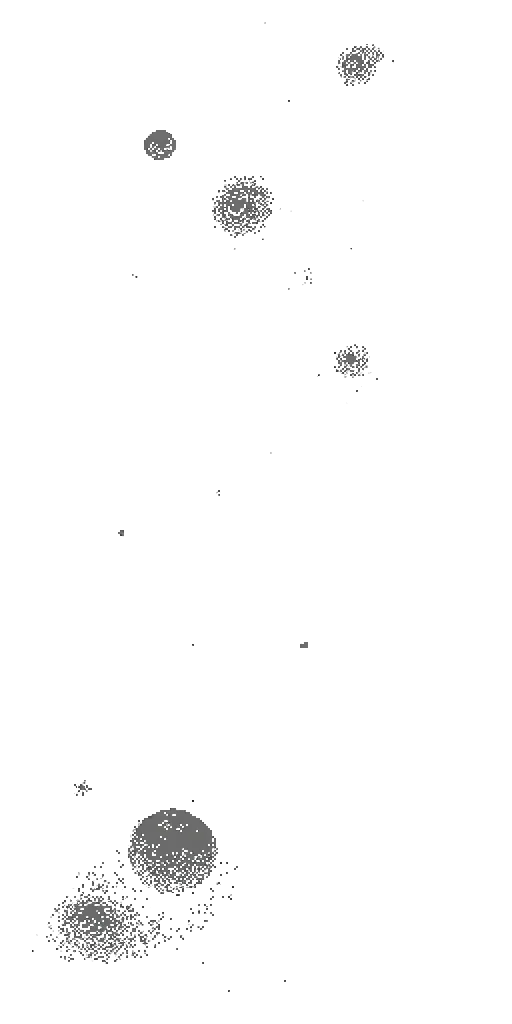
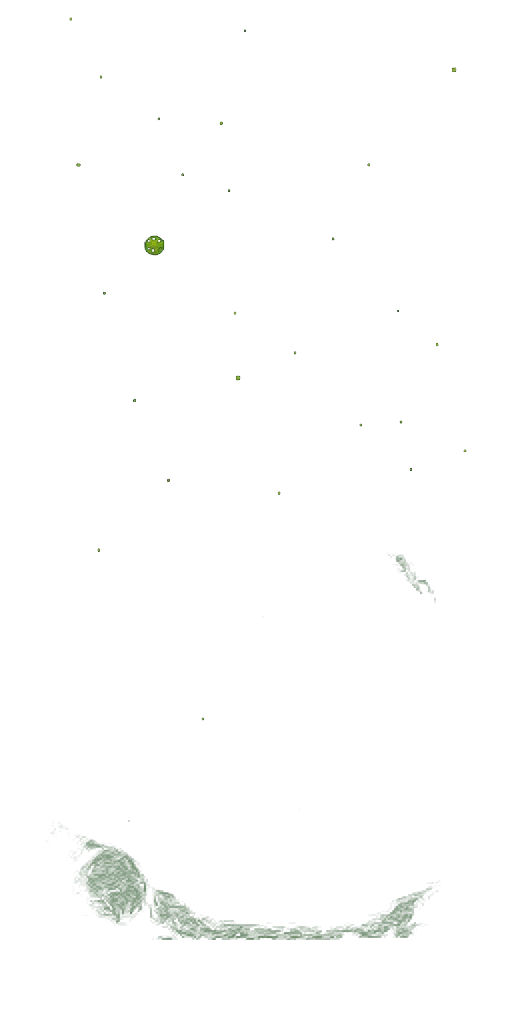
v3.0.1: překryvné vrstvy pozadí drží paletu skinu
Vrstvy 2 a 3 tří nových skinů vyšly neutrálně šedé — solar_striker #868686
tam, kde má být čtyřodstínová zeleň. Vydané skiny to nepotkalo jen proto, že
jejich paleta je dost hlasitá, aby prompt přehlušila.

Tři kola úprav promptu to nespravila a stojí za zapsání, co která ukázala.
sharedDangerMood předepisoval vrstvám bez zóny doslova "no strong colour cast",
takže model dělal šeď na přímý pokyn; přeformulován. Šablona pozadí vůbec
nepoužívala PaletteDescription, takže u skinu, jehož BackgroundMood popisuje
strukturu a ne barvy, nebyl v promptu jediný odstín; doplněna, a to před popis
vrstvy, protože barva uvedená až za ním na elementy nedosáhne. Negace "no
white, no grey" difuzní model ignoroval, nahrazena kladným určením. Každá
změna posunula výsledek, žádná ho nespravila: sytost stoupla z 0,00 na 0,09.

Barva je tu ale konstanta z definice, ne výsledek úvahy. Overlay jde přes
AlphaFromLuminance, takže z generace potřebujeme jen kde elementy jsou a jak
svítí. RecolourOverlay proto namapuje jas na paletu skinu — spouští se sám,
když sytost spadne pod 0,15, a nahlas to vypíše. Naměřeno po opravě:
solar_striker 0,00 → 0,73 s #93B512, tedy Game Boy zeleň z definice.
space_invaders (0,75) a luftrausers (0,30) brána nechala být, jak má.

U spritů by to bylo špatně a nedělá se to: barva spritu nese modelaci a
materiál. Tečka v překryvné vrstvě žádný materiál nemá.

diff --git a/pipeline/internal/postprocess/overlay_palette.go b/pipeline/internal/postprocess/overlay_palette.go
@@ -1,0 +1,127 @@
+package postprocess
+
+import (
+	"fmt"
+	"image"
+	"image/color"
+	"math"
+	"regexp"
+	"sort"
+)
+
+// overlayGreyMax is the mean saturation below which an overlay layer counts as
+// having lost its palette. Measured on real art: the layers that came out right
+// sit at 0.75 (space_invaders' green motes) and 0.30 (luftrausers' sepia dust),
+// the ones that failed at 0.00 (a four-shade green skin rendered pure white)
+// and 0.02. Nothing observed lands between 0.15 and 0.30, so the gate has room
+// on both sides and a deliberately monochrome skin is never dragged into colour
+// it did not ask for — it has no palette hues to be recoloured with either.
+const overlayGreyMax = 0.15
+
+var hexColor = regexp.MustCompile(`#[0-9A-Fa-f]{6}`)
+
+// RecolourOverlay maps an overlay layer's luminance onto the skin's own palette.
+//
+// The parallax overlays are luminous specks and debris on black, and their
+// alpha already comes from luminance rather than a chroma key, so the generator
+// only ever supplies two useful things: where the elements are and how bright.
+// Their hue is not an artistic variable at all — it is stated in the skin
+// definition. Three rounds of prompt work could not make the model honour it on
+// a narrow palette (naming the colours, reordering them ahead of the layer
+// description, and replacing negations with positive specification each moved
+// it and none fixed it; diffusion reads "bright glowing speck" as white), so
+// the hue is imposed here instead of negotiated there.
+//
+// This is deliberately not done to sprites. A sprite's colour carries modelling
+// and material, and remapping it would flatten the art. An overlay speck has no
+// material — it is a coloured dot — so nothing is lost by stating its colour.
+//
+// palette must be sorted dark to light. Alpha is untouched.
+func RecolourOverlay(src *image.NRGBA, palette []color.NRGBA) *image.NRGBA {
+	if len(palette) == 0 {
+		return src
+	}
+	b := src.Bounds()
+	dst := image.NewNRGBA(b)
+	last := float64(len(palette) - 1)
+	for y := b.Min.Y; y < b.Max.Y; y++ {
+		for x := b.Min.X; x < b.Max.X; x++ {
+			p := src.NRGBAAt(x, y)
+			if p.A == 0 {
+				dst.SetNRGBA(x, y, p)
+				continue
+			}
+			lum := (0.299*float64(p.R) + 0.587*float64(p.G) + 0.114*float64(p.B)) / 255
+			// Interpolate along the ramp so the speck keeps its internal
+			// falloff — snapping to the nearest entry would posterise every
+			// soft edge into a hard ring.
+			pos := lum * last
+			i := int(pos)
+			if i >= len(palette)-1 {
+				i = len(palette) - 2
+				if i < 0 {
+					dst.SetNRGBA(x, y, color.NRGBA{R: palette[0].R, G: palette[0].G, B: palette[0].B, A: p.A})
+					continue
+				}
+			}
+			t := pos - float64(i)
+			mix := func(a, bb uint8) uint8 { return uint8(float64(a) + (float64(bb)-float64(a))*t + 0.5) }
+			dst.SetNRGBA(x, y, color.NRGBA{
+				R: mix(palette[i].R, palette[i+1].R),
+				G: mix(palette[i].G, palette[i+1].G),
+				B: mix(palette[i].B, palette[i+1].B),
+				A: p.A,
+			})
+		}
+	}
+	return dst
+}
+
+// PaletteFromDescription pulls the hex codes out of a skin's PaletteDescription
+// and returns them sorted dark to light, which is the order RecolourOverlay
+// ramps through. Skins that describe their palette in words rather than hex
+// yield nothing and are left alone.
+func PaletteFromDescription(desc string) []color.NRGBA {
+	var out []color.NRGBA
+	for _, h := range hexColor.FindAllString(desc, -1) {
+		var r, g, b uint8
+		if _, err := fmt.Sscanf(h[1:], "%02x%02x%02x", &r, &g, &b); err != nil {
+			continue
+		}
+		out = append(out, color.NRGBA{R: r, G: g, B: b, A: 255})
+	}
+	sort.SliceStable(out, func(i, j int) bool { return lumaOf(out[i]) < lumaOf(out[j]) })
+	return out
+}
+
+func lumaOf(c color.NRGBA) float64 {
+	return 0.299*float64(c.R) + 0.587*float64(c.G) + 0.114*float64(c.B)
+}
+
+// meanSaturationOpaque is the average HSV saturation over the pixels that
+// survived the luminance key. Fully transparent pixels carry whatever RGB the
+// encoder left behind and would drag the average toward that, so they are
+// excluded rather than weighted down.
+func meanSaturationOpaque(img *image.NRGBA) float64 {
+	b := img.Bounds()
+	var sum float64
+	var n int
+	for y := b.Min.Y; y < b.Max.Y; y++ {
+		for x := b.Min.X; x < b.Max.X; x++ {
+			p := img.NRGBAAt(x, y)
+			if p.A < 32 {
+				continue
+			}
+			mx := math.Max(float64(p.R), math.Max(float64(p.G), float64(p.B)))
+			mn := math.Min(float64(p.R), math.Min(float64(p.G), float64(p.B)))
+			if mx > 0 {
+				sum += (mx - mn) / mx
+			}
+			n++
+		}
+	}
+	if n == 0 {
+		return 0
+	}
+	return sum / float64(n)
+}

diff --git a/pipeline/internal/generator/assets.go b/pipeline/internal/generator/assets.go
@@ -65,10 +65,19 @@ var structureSpecs = []struct{ name, directive string }{
 // that the key erased outright — one layer came back 100% transparent. The
 // elements have to be explicitly luminous, and the scene words have to be
 // explicitly banned, or the model reaches for a horizon every time.
+//
+// The last clause is load-bearing for the same reason the rest is. "Bright" and
+// "luminous" with no hue attached mean white to the model: measured on the v3
+// batch, layer_2 came back #8D8D8D on the four-shade green handheld and
+// #75706C on the neon vector skin. Naming the palette in a later sentence does
+// not reach the elements — the constraint has to sit on the elements
+// themselves, in the same breath as the word bright.
 const isolatedOnBlack = "The elements float in an empty pure black void with " +
 	"nothing behind them — no horizon, no ground, no terrain, no landscape, " +
 	"no skyline, no planet surface. Every element is bright and clearly " +
-	"separated from the black; the background stays pure flat black everywhere"
+	"separated from the black; the background stays pure flat black everywhere. " +
+	"Each element glows in one of the colours listed above, at full saturation, " +
+	"as if lit from within by that colour"
 
 // backgroundLayers describe the four parallax planes. Layers 1-3 are composited
 // over layer_0 with alpha derived by chroma key, hence isolatedOnBlack; layer_0
@@ -139,9 +148,19 @@ var backgroundZones = []struct {
 
 // Fillers for the shared layers, which are reused under every zone and so must
 // commit to none of them.
+//
+// sharedDangerMood used to read "the base palette held neutral, mid-tone, no
+// strong colour cast". It meant "add no sector-specific cast"; the model read
+// it as "be grey", and next to isolatedOnBlack's "bright" that won outright.
+// Measured on the v3 batch: layer_2 came back #868686 on the four-shade green
+// handheld and #585554 on the neon vector skin, while the same layer on
+// space_invaders is #41AA37 and on luftrausers #B88A60 — the older skins
+// survived only because their base palette is loud enough to outshout it.
+// It now says what it always meant: hold the skin's own palette, refuse the
+// zone's. Shipped skins are unaffected — generation skips assets that exist.
 const (
 	sharedZoneDesc   = "generic mid-territory, no distinctive landmarks — ambient detail that must sit believably over any sector of this setting"
-	sharedDangerMood = "the base palette held neutral, mid-tone, no strong colour cast — must read over both cold and hot backdrops"
+	sharedDangerMood = "stay on the base palette exactly as described above, at mid intensity — take none of the sector-specific colour shifts, but never fall back to grey or white: every element keeps the palette's own hues"
 )
 
 // AssetsForSkin returns all asset specs needed for a given skin.
@@ -263,8 +282,8 @@ func AssetsForSkin(s skin.SkinDef) []AssetSpec {
 		Resolution:  "2k",
 	})
 	for _, uiSpec := range []struct{ name, assetType, aspect string }{
-		{"ui_card_bg",    "ui_card_bg",    "1:1"},
-		{"ui_button",     "ui_button",     "4:1"},
+		{"ui_card_bg", "ui_card_bg", "1:1"},
+		{"ui_button", "ui_button", "4:1"},
 	} {
 		specs = append(specs, AssetSpec{
 			Name:        uiSpec.name,

diff --git a/pipeline/internal/postprocess/overlay_palette_test.go b/pipeline/internal/postprocess/overlay_palette_test.go
@@ -1,0 +1,80 @@
+package postprocess
+
+import (
+	"image"
+	"image/color"
+	"testing"
+)
+
+// greySpecks is what the generator hands back when it reads "bright glowing
+// speck" as white: luminous dots with no hue at all, on black.
+func greySpecks() *image.NRGBA {
+	img := image.NewNRGBA(image.Rect(0, 0, 32, 32))
+	for y := 0; y < 32; y++ {
+		for x := 0; x < 32; x++ {
+			img.SetNRGBA(x, y, color.NRGBA{A: 0})
+		}
+	}
+	for i, v := range []uint8{60, 140, 255} {
+		img.SetNRGBA(4+i*8, 10, color.NRGBA{R: v, G: v, B: v, A: 255})
+	}
+	return img
+}
+
+func TestPaletteFromDescriptionSortsDarkToLight(t *testing.T) {
+	pal := PaletteFromDescription("darkest #0F380F, dark #306230, light #8BAC0F, lightest #9BBC0F")
+	if len(pal) != 4 {
+		t.Fatalf("got %d colours, want 4", len(pal))
+	}
+	for i := 1; i < len(pal); i++ {
+		if lumaOf(pal[i-1]) > lumaOf(pal[i]) {
+			t.Errorf("palette not sorted dark to light at %d: %v then %v", i, pal[i-1], pal[i])
+		}
+	}
+	if len(PaletteFromDescription("four shades of greenish gray, no hex here")) != 0 {
+		t.Error("a worded palette should yield nothing rather than a guess")
+	}
+}
+
+func TestRecolourOverlayPutsTheSkinPaletteOnGreySpecks(t *testing.T) {
+	src := greySpecks()
+	if sat := meanSaturationOpaque(src); sat >= overlayGreyMax {
+		t.Fatalf("fixture is not grey: saturation %.2f", sat)
+	}
+
+	pal := PaletteFromDescription("darkest #0F380F, dark #306230, light #8BAC0F, lightest #9BBC0F")
+	out := RecolourOverlay(src, pal)
+
+	if sat := meanSaturationOpaque(out); sat < 0.4 {
+		t.Errorf("specks are still washed out: saturation %.2f", sat)
+	}
+	// Alpha is the layer's whole contribution to the parallax and must survive
+	// untouched — a recolour that also moved alpha would change the composite.
+	b := src.Bounds()
+	for y := b.Min.Y; y < b.Max.Y; y++ {
+		for x := b.Min.X; x < b.Max.X; x++ {
+			if src.NRGBAAt(x, y).A != out.NRGBAAt(x, y).A {
+				t.Fatalf("alpha changed at %d,%d", x, y)
+			}
+		}
+	}
+	// Brightness order has to survive too, or the specks stop reading as lit.
+	dark := lumaOf(out.NRGBAAt(4, 10))
+	mid := lumaOf(out.NRGBAAt(12, 10))
+	bright := lumaOf(out.NRGBAAt(20, 10))
+	if !(dark < mid && mid < bright) {
+		t.Errorf("ramp does not preserve brightness order: %.0f %.0f %.0f", dark, mid, bright)
+	}
+}
+
+func TestRecolourOverlayLeavesAColouredLayerAlone(t *testing.T) {
+	img := image.NewNRGBA(image.Rect(0, 0, 16, 16))
+	for y := 0; y < 16; y++ {
+		for x := 0; x < 16; x++ {
+			img.SetNRGBA(x, y, color.NRGBA{R: 66, G: 249, B: 26, A: 255})
+		}
+	}
+	if sat := meanSaturationOpaque(img); sat < overlayGreyMax {
+		t.Errorf("a saturated green layer must sit above the gate, got %.2f", sat)
+	}
+}

diff --git a/pipeline/internal/postprocess/processor.go b/pipeline/internal/postprocess/processor.go
@@ -27,6 +27,9 @@ type Config struct {
 	TargetSize  int    // max dimension in px (default 128)
 	BgThreshold int    // color distance threshold (default 60)
 	BgMargin    int    // soft-edge ramp width (default 20)
+	// PaletteDescription is the skin's own palette, used to rescue overlay
+	// layers the generator returned grey. Empty disables the rescue.
+	PaletteDescription string
 
 	// Sel records which variation each asset was built from. Assets absent
 	// from it fall back to Variation, so an unrecorded skin behaves exactly as
@@ -347,7 +350,19 @@ func processBackgrounds(cfg Config, asset skin.ManifestAsset, bgDir string) erro
 	if opaque {
 		out = resized
 	} else {
-		out = AlphaFromLuminance(resized, bgAlphaBlack, bgAlphaWhite)
+		keyed := AlphaFromLuminance(resized, bgAlphaBlack, bgAlphaWhite)
+		// An overlay that came back grey lost its palette in generation, not in
+		// composition; see RecolourOverlay for why the hue is imposed here
+		// rather than argued with the model. Loud, because a skin whose overlays
+		// keep needing this has a background prompt worth rewriting.
+		if sat := meanSaturationOpaque(keyed); sat < overlayGreyMax {
+			if pal := PaletteFromDescription(cfg.PaletteDescription); len(pal) >= 3 {
+				fmt.Printf("  [overlay] %s came back grey (saturation %.2f) — recoloured to the skin palette\n",
+					asset.Name, sat)
+				keyed = RecolourOverlay(keyed, pal)
+			}
+		}
+		out = keyed
 	}
 
 	outPath := filepath.Join(bgDir, asset.Name+".webp")

diff --git a/pipeline/cmd/postprocess/main.go b/pipeline/cmd/postprocess/main.go
@@ -76,21 +76,24 @@ func main() {
 		// one-off can be dialled in from the command line before it is written
 		// down in the definition.
 		bgThreshold := *threshold
-		if !thresholdSet {
-			if def, ok := skin.GetSkin(id); ok && def.BgThreshold > 0 {
+		var paletteDesc string
+		if def, ok := skin.GetSkin(id); ok {
+			paletteDesc = def.PaletteDescription
+			if !thresholdSet && def.BgThreshold > 0 {
 				bgThreshold = def.BgThreshold
 			}
 		}
 
 		cfg := postprocess.Config{
-			SkinDir:     filepath.Join(*input, id),
-			OutputDir:   filepath.Join(*output, id),
-			Variation:   *variation,
-			Only:        *only,
-			Sel:         sel,
-			TargetSize:  *size,
-			BgThreshold: bgThreshold,
-			BgMargin:    *margin,
+			SkinDir:            filepath.Join(*input, id),
+			OutputDir:          filepath.Join(*output, id),
+			Variation:          *variation,
+			Only:               *only,
+			Sel:                sel,
+			TargetSize:         *size,
+			BgThreshold:        bgThreshold,
+			BgMargin:           *margin,
+			PaletteDescription: paletteDesc,
 		}
 
 		// An explicit -variation is an instruction, not a default: it wins over

diff --git a/pipeline/internal/generator/prompts.go b/pipeline/internal/generator/prompts.go
@@ -50,7 +50,8 @@ No text, no UI. Single flat solid-color background, no gradient, no scene.`,
 
 	"background": `Seamless tileable {{.SceneNoun}} background for a vertical scrolling shooter.
 {{if .ZoneDesc}}This sector: {{.ZoneDesc}}. Render it within the setting above — do not abandon the setting.
-{{end}}Layer: {{.LayerDesc}}.
+{{end}}Colours — every element in this image is drawn in these and only these: {{.PaletteDescription}}.
+Layer: {{.LayerDesc}}.
 Style: {{.StyleKeywords}}.
 Base palette: {{.BackgroundMood}}.{{if .DangerMood}} Palette shift: {{.DangerMood}}.{{end}}
 Must tile seamlessly top to bottom — the top edge must continue the bottom edge exactly.

diff --git a/tyrian_mobile/Prompts/23-PLAN-v3-ten-skins.md b/tyrian_mobile/Prompts/23-PLAN-v3-ten-skins.md
@@ -440,8 +440,28 @@ ať to není 10× ruční práce.
       má shader preset i UI téma a že product ID odpovídá ID skinu
 - [x] `river_raid` doplněn do `shader_config.dart` — chyběl a tiše padal na
       výchozí konfiguraci; zapsán explicitně tak, aby se vzhled nezměnil
-- [ ] Batch 1 generování (`solar_striker`, `tempest`, `star_fox`)
-- [ ] Flutter registrace — **až po vygenerování assetů**: řádky v `pubspec.yaml`
-      ukazující na neexistující adresáře rozbijí build
+- [x] Batch 1 generování (`solar_striker`, `tempest`, `star_fox`) — 2026-09-02.
+      Odchylky od 6.1: `cmd/tune` neběžel, preview vzniklo flux workflow místo
+      Pony+LoRA, variace 2 místo 4. Tři pozadí `tempestu` spadla na 15min
+      timeout ComfyUI a byla dogenerována.
+- [x] Flutter registrace — `kSkins` chronologicky, 18 řádků v `pubspec.yaml`,
+      3 produkty v `SkinStore.storekit`. 95 testů prochází.
+- [x] **Brána po batchi 1 — 4.3 img2img: NO-GO.** Sdílená STYLE pole a výběr
+      variant udržely konzistenci uvnitř skinu srovnatelně se 14 stávajícími.
+      Nestavět; ušetří ½–1 den.
+- [x] **Brána po batchi 1 — 4.2 vrstvy 1–3: potvrzeno, opraveno u kořene.**
+      Vrstvy 2 a 3 vyšly u všech tří nových skinů neutrálně šedé
+      (`solar_striker` `#868686`, `tempest` `#585554`), zatímco stejná vrstva
+      u `space_invaders` je `#41AA37` a u `luftrausers` `#B88A60`. Příčinou
+      nebyl slabý prompt, ale `sharedDangerMood`, který vrstvám bez zóny
+      přímo předepisoval „no strong colour cast". Přeformulován; `LayerOverride`
+      tedy **není potřeba** a do `SkinDef` se nepřidává.
 - [ ] Batch 2, 3
-- [ ] Měření velikosti, `SKINS.md`, storekit, IAP v ASC/Play, `version: 3.0.0`
+- [x] Měření velikosti — assety 135 → **159 MB** za tři skiny (~8 MB/skin).
+      Zbylých sedm ≈ +60 MB → ~220 MB, tedy **přes 200MB strop** pro stažení
+      na mobilních datech. On-demand placené skiny přestávají být volitelné.
+- [x] `version: 3.0.0`, storekit sandbox produkty
+- [ ] `SKINS.md`, IAP v ASC/Play
+- [ ] Rozlišitelnost palet — viz `24-REPORT-rozlisitelnost-skinu.md`. Z nových
+      skinů nekoliduje žádný; dvě zbývající kolize jsou mezi vydanými
+      (`gradius_v`+`ikaruga`, `default`+`geometry_wars`) a řeší se shader tintem.
